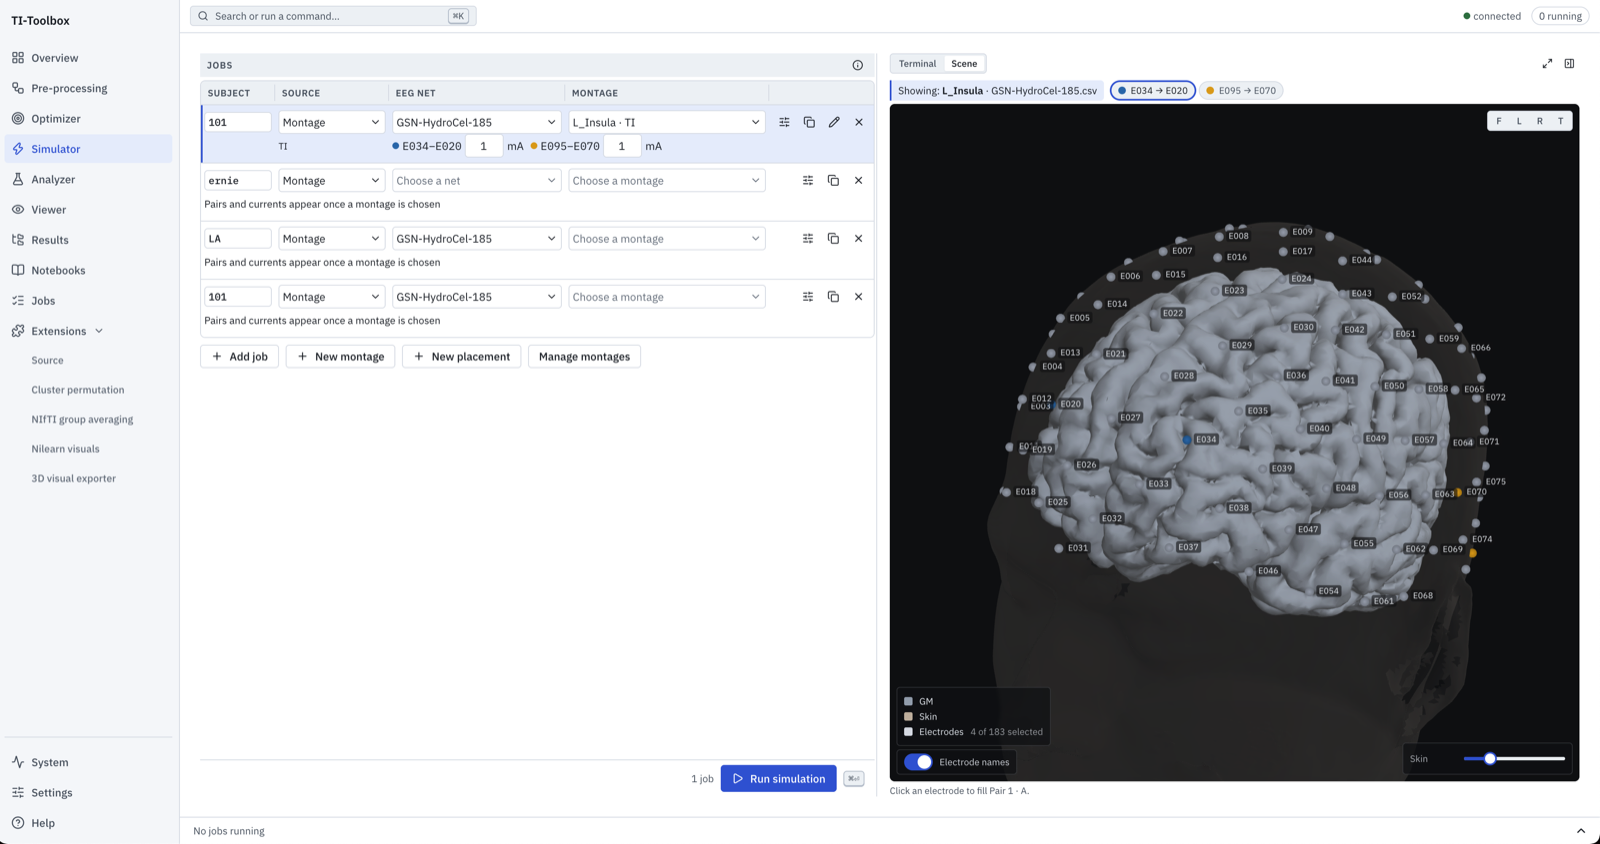
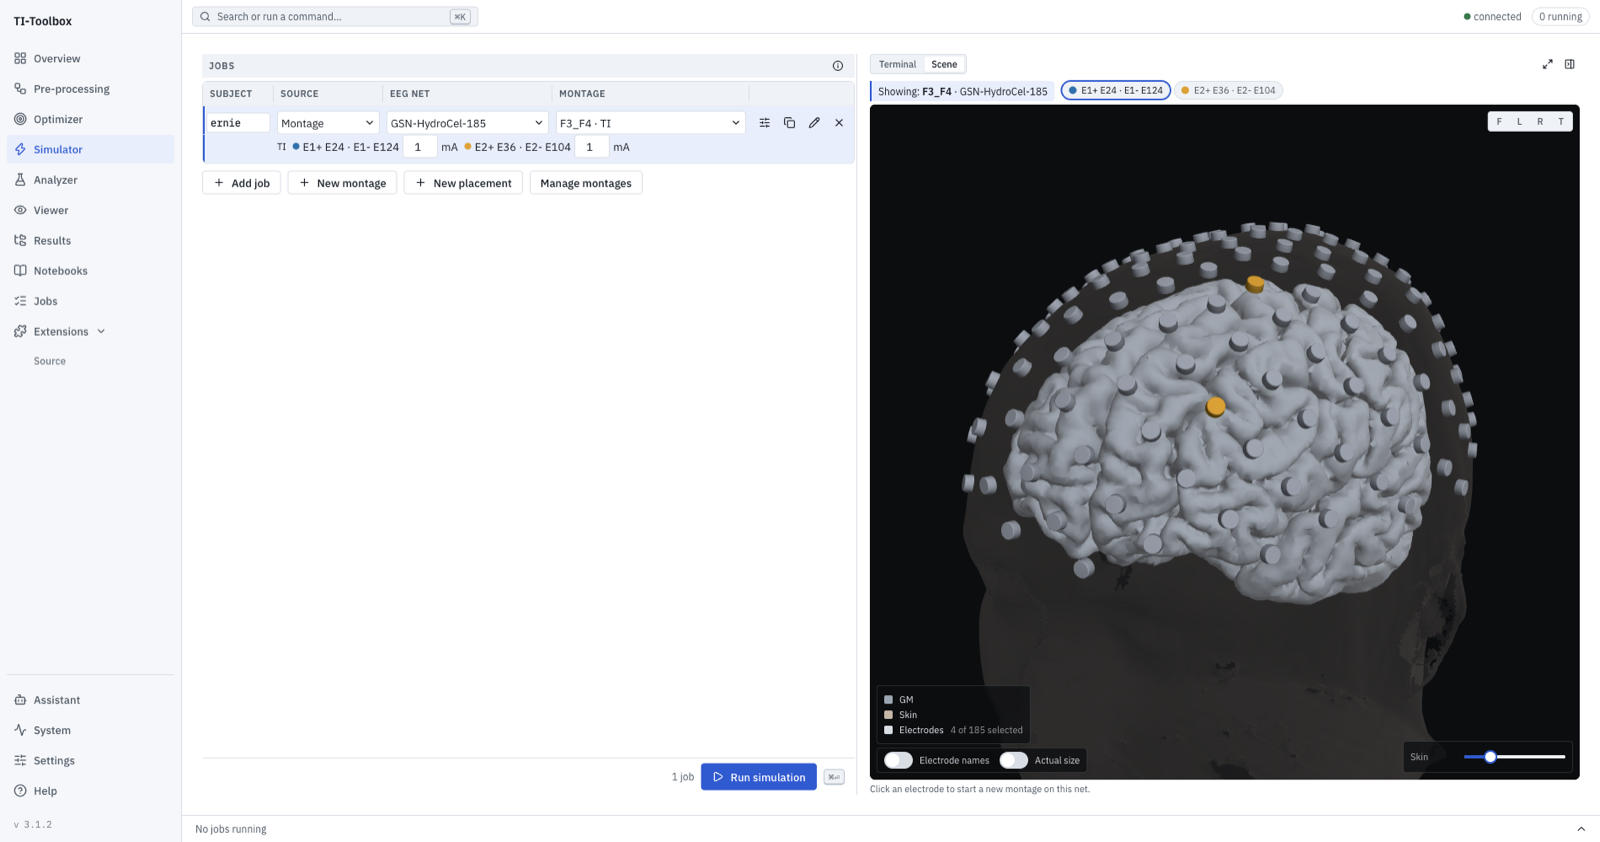
docs(simulator): the wiki screenshot shows ernie's own head, a chosen two-channel montage and both scene switches

diff --git a/docs/wiki/simulator.md b/docs/wiki/simulator.md
@@ -8,8 +8,8 @@ The Simulator computes the full FEM temporal interference field. It sits between
 
 ## In the application
 
-<img src="{{ site.baseurl }}/assets/imgs/v3/simulator-run-page.png" alt="The Simulator page: one row per simulation job, with the selected job's montage drawn in the Scene pane" style="width: 100%; max-width: 1000px;">
-<em>The Simulator (⌘3). One row is one job. The pane draws the active row's montage, or its free-hand or optimised (XYZ) placement, on that job's subject's own head.</em>
+<img src="{{ site.baseurl }}/assets/imgs/v3/simulator-run-page.png" alt="The Simulator page: one job row on subject ernie, with net GSN-HydroCel-185 and montage F3_F4, beside the Scene pane, which draws the job's electrodes on ernie's head under two channel chips (E1+ E24 · E1- E124 and E2+ E36 · E2- E104) and the Electrode names and Actual size switches" style="width: 100%; max-width: 1000px;">
+<em>The Simulator (⌘3). One row is one job; here subject ernie on GSN-HydroCel-185 with montage F3_F4, a TI montage of two channels. The pane draws the active row's montage, or its free-hand or optimised (XYZ) placement, on that job's subject's own head; the channel chips above it name each channel's electrodes (E1+ E24 · E1- E124) and the Electrode names and Actual size switches sit side by side under the head.</em>
 
 - **Jobs**: one row per simulation, each with its own **Subject** and **Source**: `Montage`, `Flex result` or `Free-hand` (see [Montage Sources](#montage-sources)). Line 2 of a row lists its channels, each named by its two electrodes (`E1+ F3 · E1- F4`: channel k runs from electrode Ek+ to Ek-) with its own current field in mA. **Add job** adds a row; the copy button duplicates one.
 - **TI or mTI**: not a control. It is read off the number of channels: 2 channels run standard TI, 4, 6, 8 … run mTI (see [How the Toolbox Detects mTI](#how-the-toolbox-detects-mti)).

diff --git a/docs/index.md b/docs/index.md
@@ -58,7 +58,7 @@ layout: home
   <div class="carousel-wrapper">
     <div class="carousel-images">
       <div class="carousel-slide active">
-        <img src="{{ site.baseurl }}/assets/imgs/v3/simulator-run-page.png" alt="The Simulator page: job rows beside a scene pane that draws the montage on the subject's head">
+        <img src="{{ site.baseurl }}/assets/imgs/v3/simulator-run-page.png" alt="The Simulator page: a job row beside a scene pane that draws the montage on the subject's head">
         <p>Simulator: configure simulations and preview your electrode montage</p>
       </div>
       <div class="carousel-slide">
